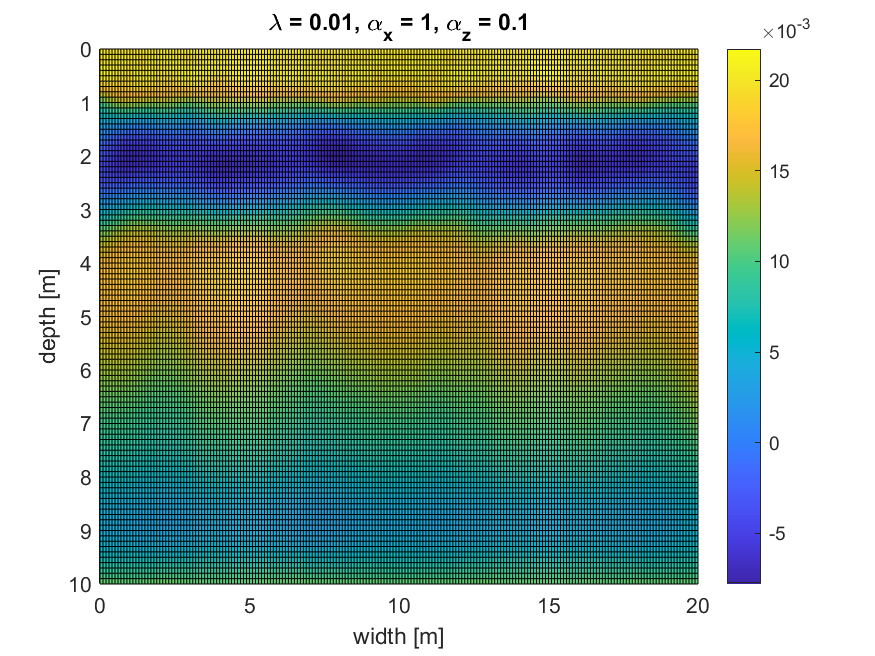
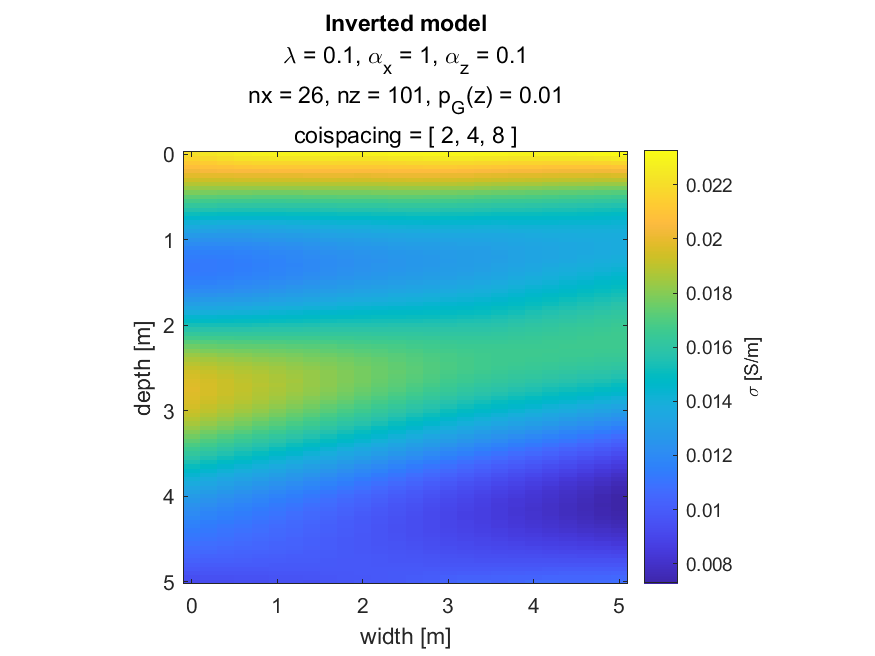
update coilspacing

diff --git a/maltab_models/2D/Inversion2D.m b/maltab_models/2D/Inversion2D.m
@@ -1,38 +1,37 @@
 % simple 1D inversion of FDEM data acquired over a layered Earth using
 % multiple coil separations and both vertical and horizontal dipoles
 
-clear; clc; tic
-tic
+clear; clc; close all; tic
 % load the dataset
 load data2D
 
 xlog = unique(data(:,4)); % horizontal size of the model
-ztop = 0:0.1:10; % vertical size of the model
-
+ztop = 0:0.05:5; % vertical size of the model
 nx = length(xlog); % number of discretization layers horizontal
 nz = length(ztop); % number of discretization layers vertical
-
 ndata = size(data,1); % number of sigma_a
 
 % noise
 % Gaussian noise with standard deviation of X% of average data value
 sigma_a = data(:, 1);
-sigma_a = sigma_a + 0.01*mean(abs(sigma_a))*randn(size(sigma_a));
+noi = 0.01;
+sigma_a = sigma_a + noi*mean(abs(sigma_a))*randn(size(sigma_a));
 data(:, 1) = sigma_a;
 
+% setting up G matrix
 ndata_p = size(data(data(:, 4) == 1), 1); % select data for each measurment point
-
 G_stack = cell(1, nz); % predefine the list that will contain all 1D G marix
 
 for j = 1:nx
     G_prov = zeros(ndata_p, nz);   % initialize W matrix
-    for i=1:size(G_prov, 1)          % populate the matrix row-by-row
+    for i=1:size(G_prov, 1)        % populate the matrix row-by-row
         R = weightEM2D(ztop, data(i,2), data(i,3));
         G_prov(i, :) = R;
     end
     G_stack{j} = G_prov;
 end
 
+% G matrix
 G = sparse(blkdiag(G_stack{:})); % stack, blockdiag and sparse
 
 % set parameters for the regularization
@@ -44,22 +43,36 @@ alphaz = 0.1; % weight on model smoothness in z-direction
 [Dx,Dz] = smoothweightEM2D(nx,nz);
 Wm = alphax*(Dx'*Dx) + alphaz*(Dz'*Dz);
 
-
 % inversion
-lamb = 1e-2;
+lamb = 1e-1; % noise fitting parameter
+tol = 1e-10; % tolerance max
+itmax = 1e3; % max iteration
+
 A = G'*G + Wm*lamb; 
 b = G'*data(:, 1);
-m = cgs(A, b, 1e-10, 1000);
-m = reshape(m, [], nx);
+[m1,fl1,rr1,it1,rv1] = cgs(A, b, tol, itmax);
+m = reshape(m1, [], nx);
 
-toc
+% figure()
+% semilogy(0:length(rv1)-1,rv1/norm(b),'-')
+% hold on
+% yline(tol,'r--');
+% xlabel('Iteration number')
+% ylabel('Relative residual')
 
 figure()
-inv = pcolor(xlog, ztop, m);
-title(['\lambda = ' num2str(lamb) ', \alpha_x = ' num2str(alphax) ', \alpha_z = ' num2str(alphaz)]) 
-ylabel('depth [m]')
-xlabel('width [m]')
+inv = imagesc(xlog, ztop, m);
+title('Inverted model')
+subtitle({['\lambda = ' num2str(lamb) ', \alpha_x = ' num2str(alphax), ', \alpha_z = ' num2str(alphaz)]...
+    ['nx = ' num2str(nx) ', nz = ' num2str(nz) ', p_G(z) = ' num2str(noi)]...
+    ['coispacing = [ ' num2str(data(1, 2)) ', ' num2str(data(3, 2)) ', ' num2str(data(5, 2)) ' ]']})
 set(gca, 'YDir','reverse')
-colorbar
+xlabel('width [m]')
+ylabel('depth [m]')
 % shading interp;
+axis image
+c = colorbar;
+c.Label.String = '\sigma [S/m]';
+% caxis([0 max(m1)]);
 saveas(inv, 'inversion_2d', 'png')
+toc

diff --git a/maltab_models/2D/smoothweightEM2D.m b/maltab_models/2D/smoothweightEM2D.m
@@ -9,9 +9,6 @@ function [Dx,Dz] = smoothweightEM2D(nx,nz)
 %
 % nx = number of model cells in x direction
 % nz = number of model cells in z direction
-%
-% by James Irving
-% June 2019
 
 ncells = nx*nz; % nuber of cell
 weights = repmat([1 -2 1],ncells,1); % preset the matrix
